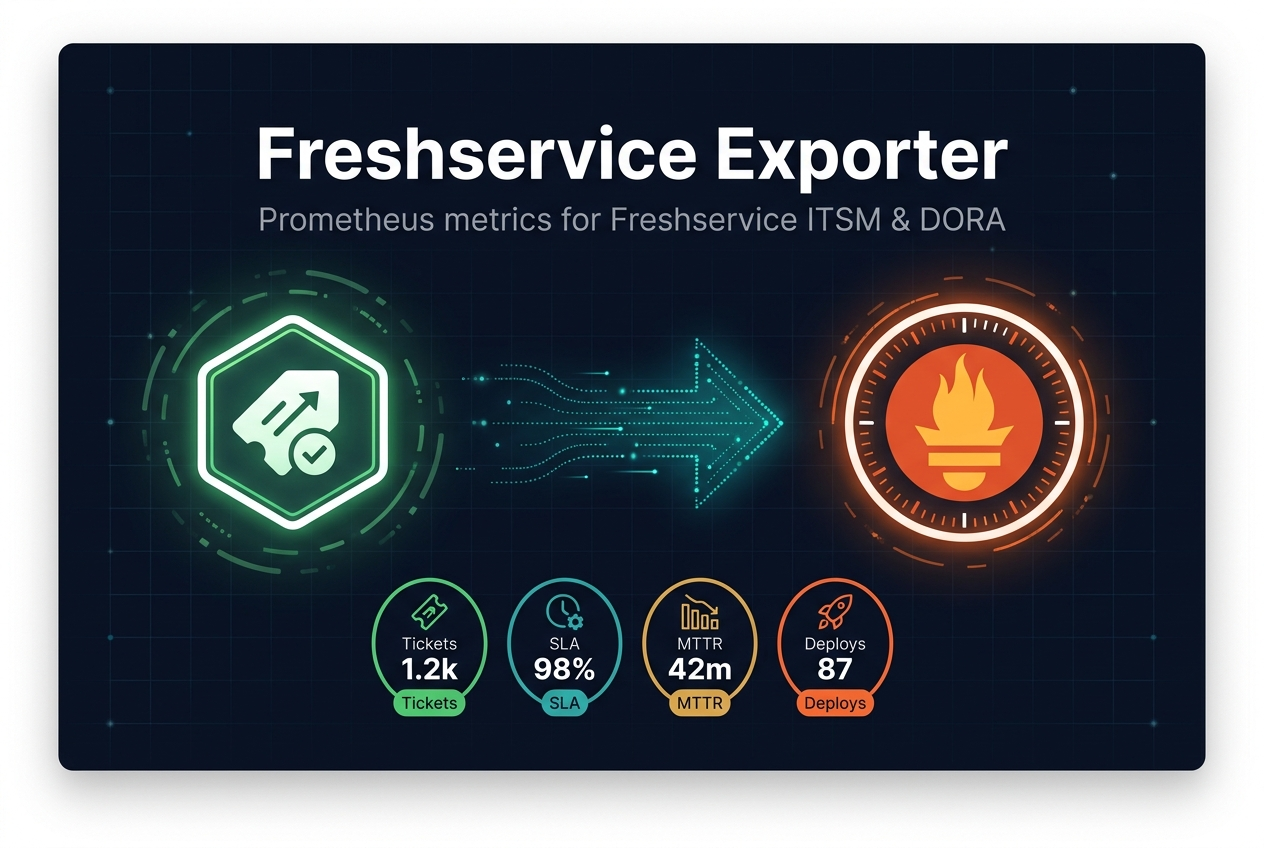
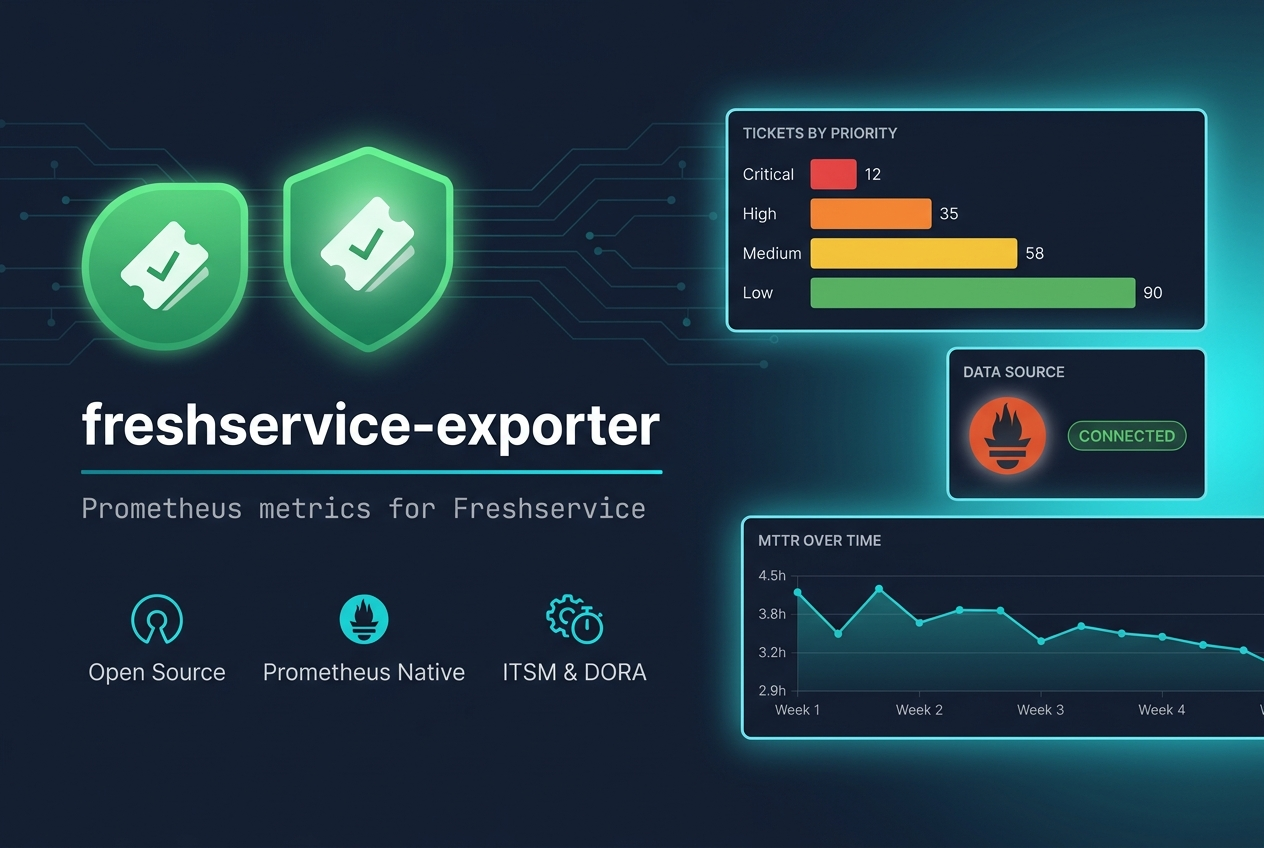
Align hero and README with org exporter repos
- Regenerate hero as full-bleed dark banner matching tenable/snyk style
- Add PyPI, Python, and License badges like tenable-exporter
- Docker image tags section as a table

diff --git a/README.md b/README.md
@@ -6,6 +6,9 @@ Prometheus exporter for [Freshservice](https://www.freshservice.com/) with a bro
 
 [![CI](https://github.com/polarpoint-io/freshservice-exporter/actions/workflows/ci.yml/badge.svg)](https://github.com/polarpoint-io/freshservice-exporter/actions/workflows/ci.yml)
 [![CodeQL](https://github.com/polarpoint-io/freshservice-exporter/actions/workflows/codeql-analysis.yml/badge.svg)](https://github.com/polarpoint-io/freshservice-exporter/actions/workflows/codeql-analysis.yml)
+[![PyPI](https://img.shields.io/pypi/v/freshservice-exporter?logo=pypi&logoColor=white)](https://pypi.org/project/freshservice-exporter/)
+[![Python](https://img.shields.io/pypi/pyversions/freshservice-exporter?logo=python&logoColor=white)](https://pypi.org/project/freshservice-exporter/)
+[![License](https://img.shields.io/badge/license-MIT-blue.svg)](LICENSE)
 [![GHCR](https://img.shields.io/badge/ghcr.io-freshservice--exporter-blue?logo=github)](https://github.com/polarpoint-io/freshservice-exporter/pkgs/container/freshservice-exporter)
 [![Helm](https://img.shields.io/badge/Helm-ghcr.io%2Fpolarpoint--io%2Fcharts-blue?logo=helm)](https://github.com/polarpoint-io/freshservice-exporter/pkgs/container/charts%2Ffreshservice-exporter)
 
@@ -39,7 +42,13 @@ docker run -e FRESHSERVICE_API_KEY=... -e FRESHSERVICE_DOMAIN=company.freshservi
   -p 9192:9192 ghcr.io/polarpoint-io/freshservice-exporter:latest
 ```
 
-Image tags: `X.Y.Z` / `X.Y` / `X` (releases, installed from the matching PyPI package), `main` (latest snapshot), and `<version>-dev.<run>` / `<version>-dev-<sha>` (prerelease snapshots built from source).
+### Docker image tags
+
+| Tag | When pushed |
+|---|---|
+| `1.2.3` / `1.2` / `1` | On a published release, installed from the matching PyPI package |
+| `latest` / `main` | Every merge to `main` (snapshot, built from source) |
+| `<version>-dev.<run>` / `<version>-dev-<sha>` | Prerelease snapshots on every merge to `main` |
 
 ## Quick start
 
